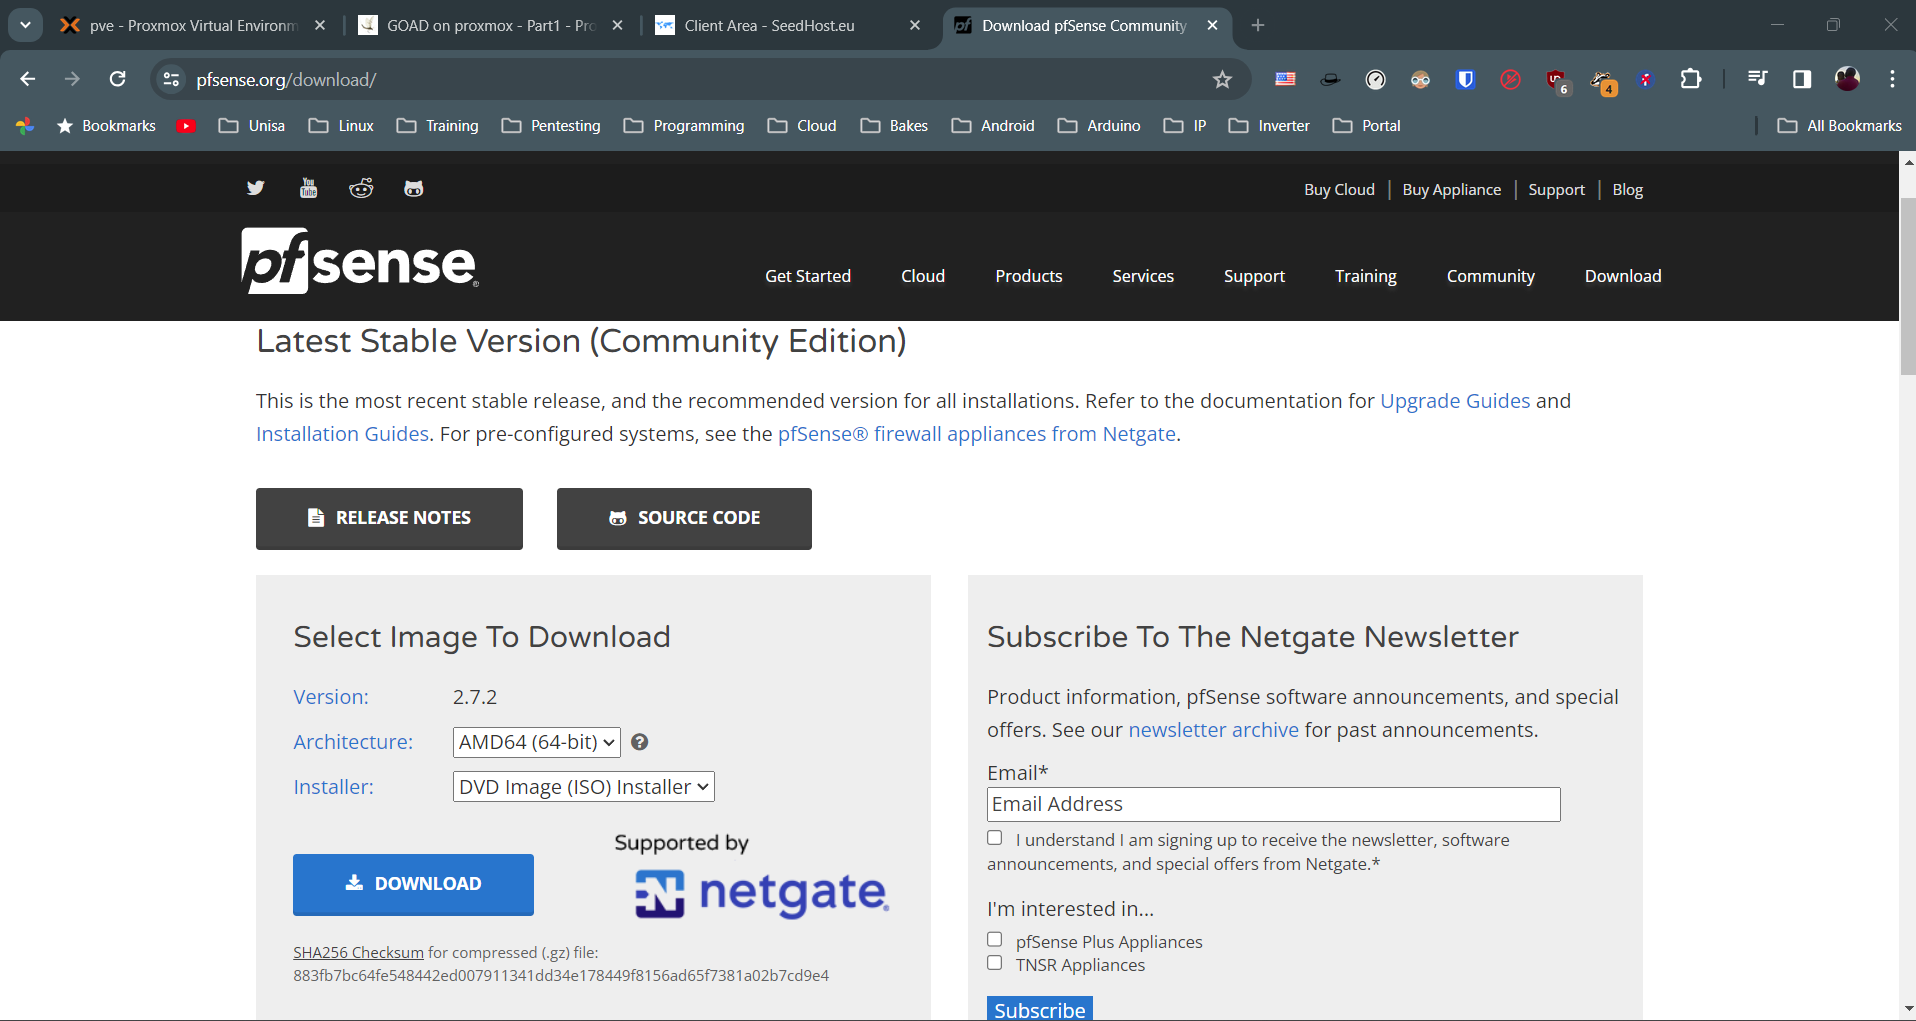
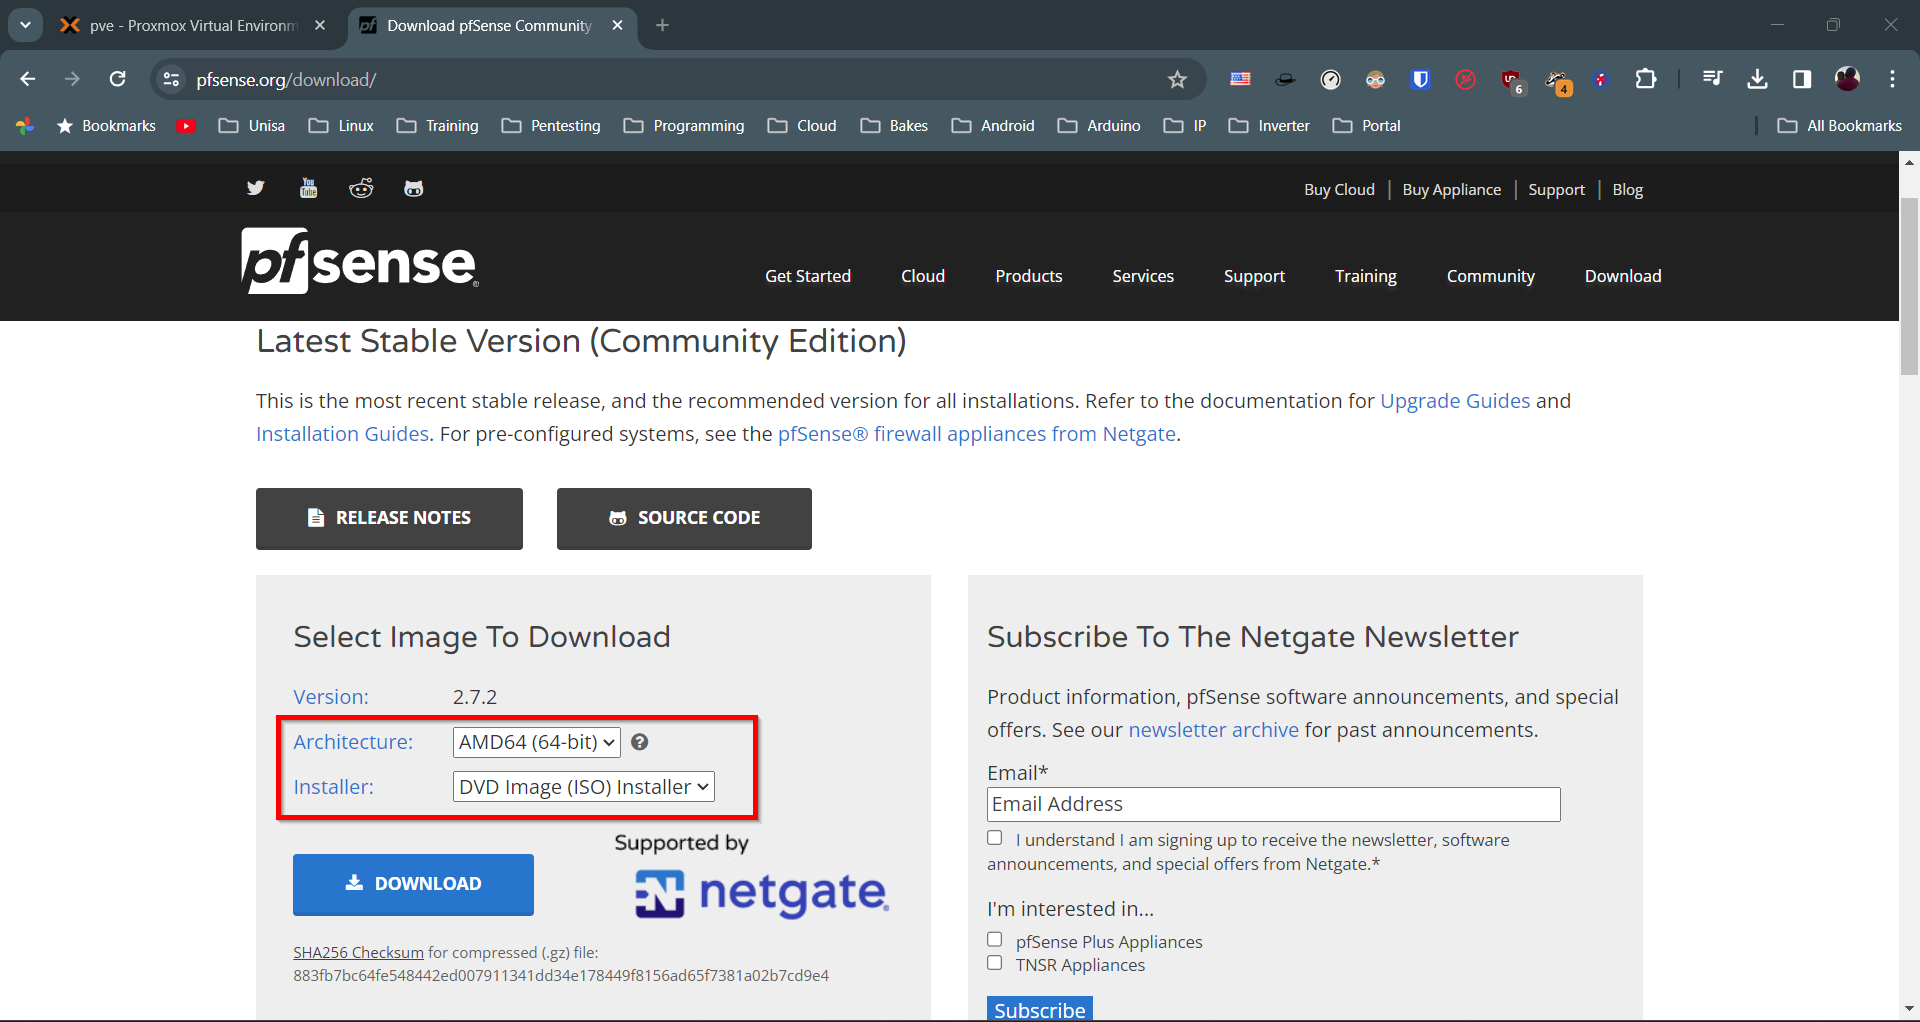
sending modified picture

diff --git a/GOAD-pfsense-setup.md b/GOAD-pfsense-setup.md
@@ -35,9 +35,8 @@ Additional virtual network bridges will be defined. I have interpreted in the fo
 ## 2. Download the .iso
 
 Download pfSense Community edition. https://www.pfsense.org/download/
-
  
-![()](https://github.com/quincyntuli/pfsense/raw/main/img/GOAS-New-3-pic-at-end.webp)
+![()](https://github.com/quincyntuli/pfsense/raw/main/img/pFsense-install-Download.png)
 
 ## 3. Upload pfSense .iso to Proxmox
 
